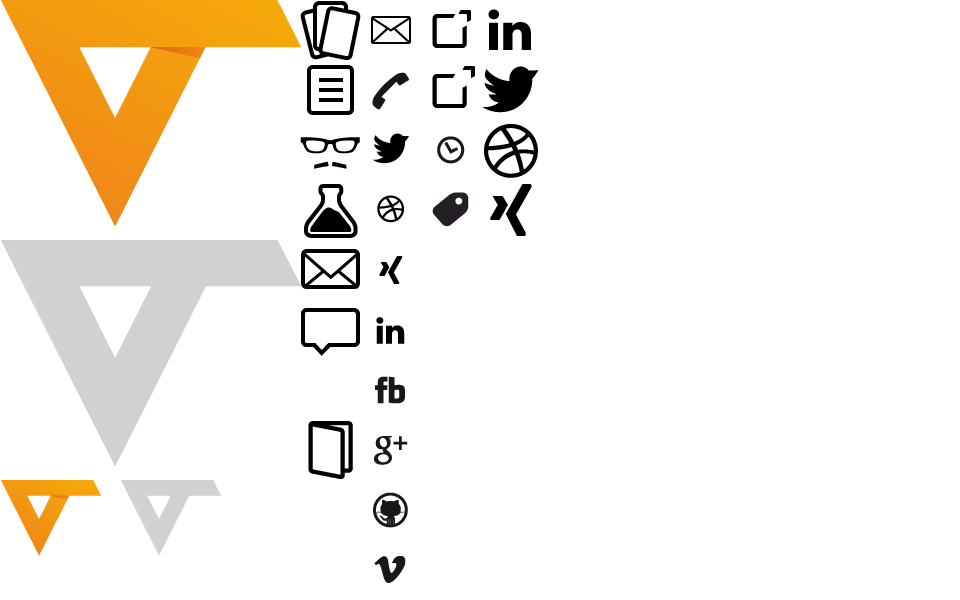
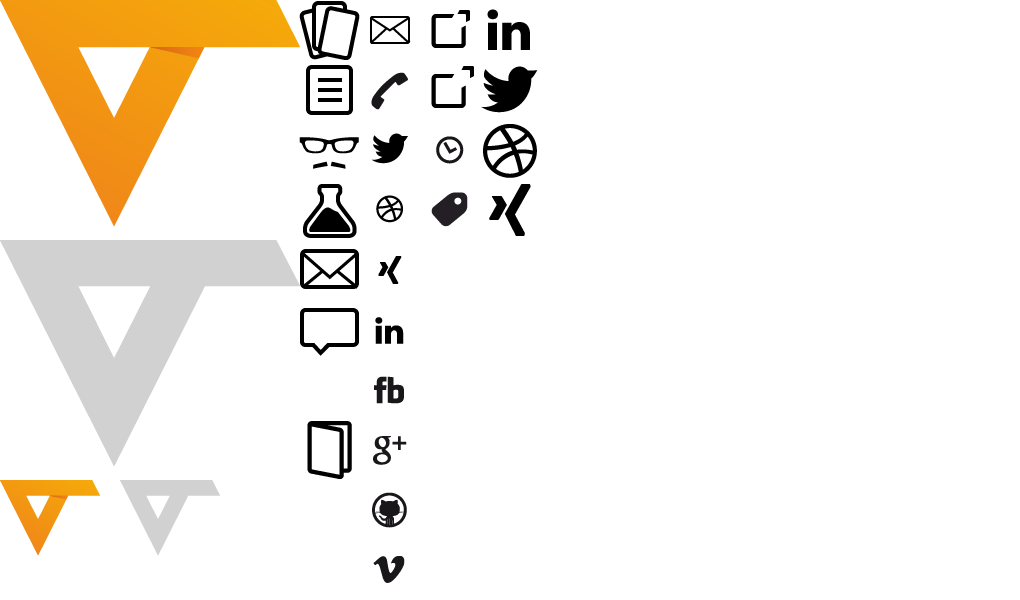
bugfix for card flip

diff --git a/libs/css/cards-0.0.1.css b/libs/css/cards-0.0.1.css
@@ -16,6 +16,7 @@
 	position: absolute;
 	top: 0;
 	left: 0;
+	z-index: 10;	
 	font-family: "Open Sans", Helvetica, Arial, Sans-serif;
 	border-radius: 2px;
 	background: rgb(255,255,255);
@@ -24,7 +25,13 @@
 }
 .card-flip:hover .card{
 	-webkit-box-shadow: 0 15px 50px rgba(0,0,0,0.3);
-	box-shadow: 0 15px 50px rgba(0,0,0,0.3);
+	box-shadow: 0 15px 50px rgba(0,0,0,0.3);	
+}
+.card-flip{
+	z-index: 10;
+}
+.card-flip:hover{
+	z-index: 90;
 }
 /*---------------------------------*/
 /* Flip animation */
@@ -40,21 +47,16 @@
 	position: relative;
 	display: block;
 	z-index: 30;
-	/* transition */
-	-webkit-transition: all .5s cubic-bezier(.8,.1,.3,.9);
-	-moz-transition: all .5s cubic-bezier(.8,.1,.3,.9);
-	transition: all .5s cubic-bezier(.8,.1,.3,.9);
 	/* perspective */
 	perspective: 600px;		
 	-webkit-perspective: 600px;
 	-moz-perspective: 600px;
 }
 .card{
-	transition: all .4s ease;   
-	-webkit-transition: all .4s ease;
-	-moz-transition: all .4s ease;
-	-o-transition: all .4s ease;
-	-ms-transition: all .4s ease;
+	/* transition */
+	-webkit-transition: -webkit-transform .5s cubic-bezier(.8,.1,.3,.9);
+	-moz-transition: -moz-transform .5s cubic-bezier(.8,.1,.3,.9);
+	transition: transform .5s cubic-bezier(.8,.1,.3,.9);
 	/* backface hidden */
 	-webkit-backface-visibility: hidden;	
 	-moz-backface-visibility: hidden;
@@ -63,13 +65,13 @@
 }
 .card-flip .front, .screen .card-flip:hover .back{
 	-webkit-transform: rotateY( 0deg );
-	-moz-transform: rotateY( 0deg );
+	-moz-transform: perspective(600px) rotateY( 0deg );
 	transform: rotateY( 0deg );	
 	z-index: 900;
 }
 .card-flip .back {
 	-webkit-transform: rotateY( -180deg );
-	-moz-transform: rotateY( -180deg );
+	-moz-transform: perspective(600px) rotateY( -180deg );
 	transform: rotateY( -180deg );
 	z-index: 800;
 }
@@ -77,7 +79,7 @@
 	-webkit-transform: rotateY( 180deg );
 	-moz-transform: rotateY( 180deg );
 	transform: rotateY( 180deg );
-	z-index: 800;
+	z-index: 900;
 }
 /*---------------------------------*/
 /* card content - front */

diff --git a/libs/css/about-0.0.1.css b/libs/css/about-0.0.1.css
@@ -84,46 +84,23 @@ section{
 }
 .about-icon .icon{
 	background-position: -270px -80px;
-}
-.about-icon.vision .icon{
 	position: absolute;
-	top: 45px;
+	top: 15px;
 	left: 15px;
 	width: 120px;
-	height: 80px;
-	background-position: -270px 0px;
+	height: 120px;
 }
-.about-icon.intelligent-design .icon{
-	position: absolute;
-	top: 45px;
-	left: 15px;
-	width: 120px;
-	height: 80px;
-	background-position: -270px 0px;
-}
+.about-icon.vision .icon{ background-position: -270px 0px; }
+.about-icon.intelligent-design .icon{ background-position: -390px 0px; }
+.about-icon.modern-branding .icon{ background-position: -270px -120px; }
+.about-icon.interface-design .icon{ background-position: -390px -120px; }
 .about-icon.intelligent-design, .about-icon.interface-design{
 	float: right;
 	margin-left: 25px;
 }
-.about-icon.interface-design .icon{
-	position: absolute;
-	top: 35px;
-	left: 40px;
-	width: 70px;
-	height: 90px;
-	background-position: -400px 0px;
-}
 .about-icon.modern-branding{
 	float: right;
 	margin-right: 25px;
-}
-.about-icon.intelligent-design .icon{
-	position: absolute;
-	top: 5px;
-	left: 15px;
-	width: 120px;
-	height: 120px;
-	background-position: -270px -180px;
 }
 .active .about-icon{
 	background-color: rgb(245,160,10);

diff --git a/libs/css/menu-0.0.1.css b/libs/css/menu-0.0.1.css
@@ -100,8 +100,8 @@
 	height: 30px;
 	width: 70px;
 	z-index: 4;
-	background-image: -moz-linear-gradient(left, rgba(243,243,243,1.0) 0, rgba(243,243,243,1.0) 50px, rgba(243,243,243,0.0) 70px);
-	background-image: -webkit-linear-gradient(left, rgba(243,243,243,1.0) 0, rgba(243,243,243,1.0) 50px, rgba(243,243,243,0.0) 70px);
+/*	background-image: -moz-linear-gradient(left, rgba(243,243,243,1.0) 0, rgba(243,243,243,1.0) 50px, rgba(243,243,243,0.0) 70px);
+	background-image: -webkit-linear-gradient(left, rgba(243,243,243,1.0) 0, rgba(243,243,243,1.0) 50px, rgba(243,243,243,0.0) 70px);*/
 }
 #sidebar_bottom{
 	width: 60px;	

diff --git a/libs/css/base-0.0.1.css b/libs/css/base-0.0.1.css
@@ -50,11 +50,7 @@ only screen and (                min-resolution: 192dpi),
 only screen and (                min-resolution: 2dppx) {
 	.veare-sprite, .icon, .icon-small{ 	
 		background-image: url('../../media/layout/veare-icons@2x.png');
-		background-size: 480px 300px;
-	}
-	.icon{
-		background-image: url('../../media/layout/veare-icons@2x.png');
-		background-size: 480px 300px;
+		background-size: 510px 300px;
 	}
 }
 /*------------------*/

diff --git a/libs/css/layout-0.0.1.css b/libs/css/layout-0.0.1.css
@@ -20,7 +20,9 @@
 	z-index: 20;
 	width: 80px;
 	height: 100%;
-	background: rgb(243,243,243);
+/*	background: rgb(243,243,243);*/
+background-image: -moz-linear-gradient(left, rgb(248,248,248) 70%, rgb(243,243,243));
+background-image: -webkit-linear-gradient(left, rgb(248,248,248) 70%, rgb(243,243,243));
 }
 .nav-wide #sidebar{ width: 180px; }
 #sidebar.shadow{

diff --git a/application/views/custom/about.php b/application/views/custom/about.php
@@ -20,15 +20,14 @@
 	</section>
 	<section class="column-five rearrange section-two activatable" data-rearrange="screen">
 		<div class="column column-two tablet-one quote left">
-			<blockquote class="quote-box">You have to know where you want to be in one year, or even ten.”</blockquote>
+			<blockquote class="quote-box">You have to know where you want to be in one year, or even ten years.”</blockquote>
 			<div class="vision about-icon"><div class="veare-sprite icon"></div></div>
 		</div>
 		<div class="column column-two content">
 			<div class="text">
 				<h2 class="open_sans_bold sub-headline">Vision</h2>
-				<p>Every creative process should start with a vision. An idea to strive towards. You have to know where you want to be in one year, or even ten. This vision does not have to be 100% realisable, but it should stay within the realm of realism.</p>
-				<p>A vision should cover all levels of a project, the core idea, the design, the communication, the business aspect and whatever else is part of your business. This will be our guide throughout the project.
-				</p>
+				<p>Every creative process should start with a vision. An idea to strive towards. This idea does not have to be 100% realisable, but it should stay within the realm of realism.</p>
+				<p>A vision builds on your business philosophy, creating a direction for the future of your business. It should cover all levels of a project, the core idea, the design, the communication, the business aspect and whatever else is part of your business. This will be our guide throughout the project.</p>
 			</div>
 			<div class="active-bg right"></div>
 		</div>

diff --git a/application/views/portfolio/card.php b/application/views/portfolio/card.php
@@ -3,7 +3,7 @@
 		<div class="card front">	
 				<div class="card-content">
 					<div class="card-image">
-						<img src="<?=base_url()?>media/images/<?=variable($images['filename']).'-thumb_300_240.'.variable($images['ext'])?>" alt="<?=$title?>"/>
+						<img src="<?=base_url()?>media/images/<?=variable($images['filename']).'-thumb_300_240.'.variable($images['ext'])?>" alt="<?=$title?>" />
 					</div>
 					<h3 class="card-headline"><?=$title?></h3>
 					<p class="card-text"><?=variable($excerpt)?></p>
